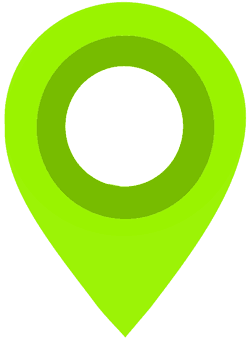
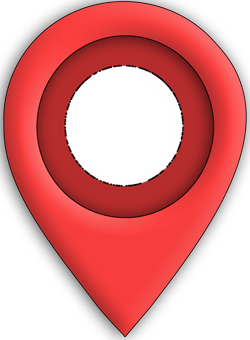
simulator finishing

diff --git a/simulator.html b/simulator.html
@@ -36,7 +36,7 @@
         <div class="container-fluid">
             <div class="row">
                 <div class="col-xs-2">
-                    <img id="dialogCustomerImage" class="avatarImg img-circle vcenter" src="img/lahm.jpg">
+                    <img id="dialogCustomerImage" class="avatarImg img-circle vcenter" src="">
                 </div>
                 <div class="col-xs-10">
                     <div id="dialogCustomerFields" class="row">
@@ -156,10 +156,10 @@
 
     <script id="custDialogue" type="text/x-handlebars-template">
         <div class="col-xs-4">
-        <p>Name: <span id="dialogCustomerName"> ... </span> </p>
+            <p>Name: <span id="dialogCustomerName"> ... </span> </p>
         </div>
         <div class="col-xs-4">
-        <p>Phone: <span id="dialogCustomerPhone"> ... </span> </p>
+            <p>Phone: <span id="dialogCustomerPhone"> ... </span> </p>
         </div>
         {{#each customerAttributes}}
         <div class="col-xs-4"><p> {{this.label}}: <span id="dialogCustomer_{{this.key}}"> ... </span> </p></div>
@@ -170,9 +170,10 @@
         <div class="">
             <div id="customer_div_{{id}}" 
                 class="customer container" 
-                style="z-index: 10; position: relative; background-image: url('img/map_pin_{{pinId}}.png');background-size: contain;width: 125px;height: 170px;z-index: 0;" >
-
-                <img class="mapPin " src="{{image}}">
+                style="z-index: 10; position: relative; background-image: url('img/map_pin_{{pinId}}.png');" >
+                <div class="custumer-image-box" style="background-image: url('{{image}}'); border-color: {{color}};">
+                    
+                </div>
                 <div class="mapPinPointer"></div>
             </div>
         </div>

diff --git a/css/style.css b/css/style.css
@@ -36,15 +36,11 @@
 	}
 
 	.container.customer {
-		  /*margin: 3px;*/
-		  /*border-radius: 15px;
-		  border-width: 1px;
-		  border-style: dotted;
-		  border-color: rgb(130,130,130);
-		  */
-		  opacity: 0.95;
-		  min-height: 80px;
-		  max-width: 100%;
+		  background-size: contain;
+		  width: 125px;
+		  height: 170px;
+		  opacity: 0.90;
+		  margin: 10px;
 	}
 
 	div.container.customer :active {
@@ -101,12 +97,6 @@
 		margin-bottom: 5px;
 	}
 
-
-	img.mapPin {
-		max-height: 150px;
-		margin: 10px;
-	}
-
 	div.mapPinPointer {
 		width: 10px;
 	    height: 5px;
@@ -128,12 +118,17 @@
     animation-timing-function: ease-in-out;
 }
 
-.ratio-box{
-	position: relative;
-	width: 50%;		/* desired width */
-}
-.ratio-box:before{
-	content: "";
-	display: block;
-	padding-top: 100%; 	/* initial ratio of 1:1*/
+.custumer-image-box {
+	background-image: url('../img/no_avatar.png');
+    width: 90px;
+    height: 90px;
+    background-size: cover;
+    background-repeat: no-repeat;
+    border-radius: 50%;
+    position: relative;
+    top: 19px;
+    left: 3px;
+    border-width: 3px;
+    border-style: dashed;
+
 }

diff --git a/js/simulator.js b/js/simulator.js
@@ -132,7 +132,7 @@ function refreshCustomers(customerList) {
 
 	$.each(customerList, function () {
 		// Render Tempate customerDiv
-		$("#customer-list").append(htmlTemplates.customerContainerDiv({id: this.id , image: this.img, pinId: this.id % 7}));
+		$("#customer-list").append(htmlTemplates.customerContainerDiv({id: this.id , image: this.img, pinId: this.id % 7, color:this.color}));
 	});
 	$( ".customer.container" ).draggable();
 
